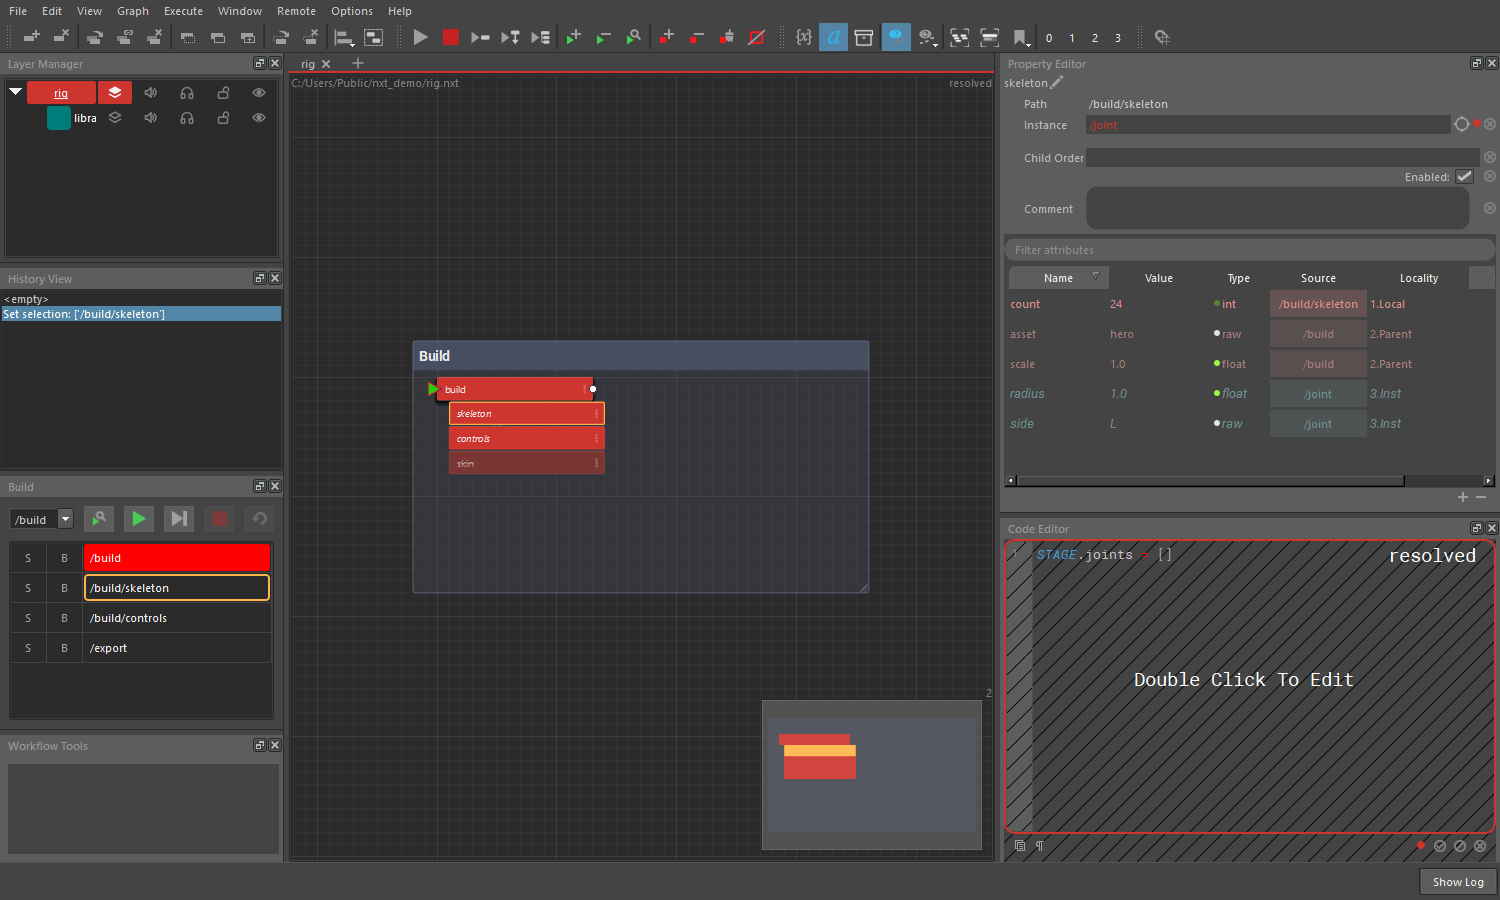
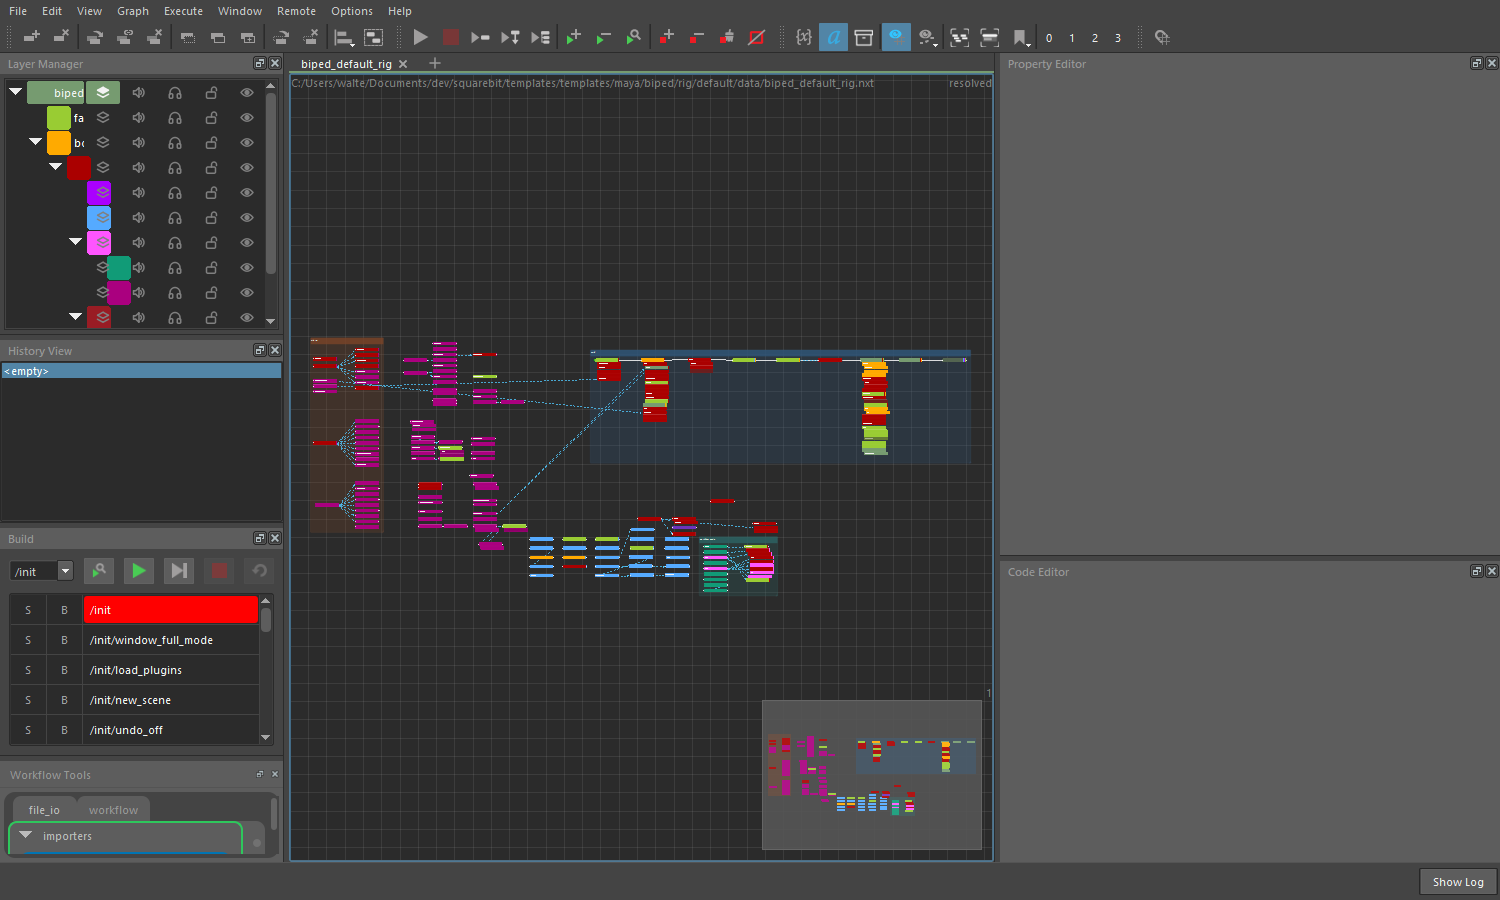
Docs: Host application in Maya, Blender and Unreal
What the look does in each host, with pictures from Blender and Unreal,
and the Maya picture retaken with the round workflow buttons.

Claude-Session: https://claude.ai/code/session_01L3sBgXZyPfyXoG9XL5jphw
(cherry picked from commit 07b6e25d6e00ab2d9f98826b0c993dae88088c1b)

diff --git a/docs/user_docs/docs/reference.md b/docs/user_docs/docs/reference.md
@@ -1098,16 +1098,23 @@ own dialogs in Options.
 - **Classic** is how the editor looked before the modern look: the
   original dark stylesheet and its blue highlights, and nodes with square
   corners and their names in the code font.
-- **Host application** takes the colors and font of the host the editor
-  runs in, and leaves its widgets to be drawn the way the host draws its
-  own, so in Maya the editor looks like a Maya window. It needs a host
-  that is a Qt application with a dark interface. Standalone, and in
-  Blender and Unreal, where the editor's windows are the only Qt ones,
-  there is no such look to take and the editor stays Modern.
+- **Host application** looks like the host the editor runs in:
+    - In **Maya**, the editor takes Maya's colors and font, and Maya draws
+      its widgets, so it looks like a Maya window. Workflow Tools keep
+      their round buttons, in Maya's colors.
+    - In **Blender** and **Unreal**, which draw their own interface
+      without Qt, the editor draws its widgets itself in that host's
+      colors and font: Blender's default theme and its Inter font, and
+      Unreal's editor colors and Roboto.
+    - On its own, the editor is Modern, and Host application is greyed
+      out in Preferences. Chosen in a host, it is kept for the next time
+      the editor runs there.
 
 ![Modern](images/look_modern.png)
 ![Classic](images/look_classic.png)
 ![Host application, in Maya](images/look_host.png)
+![Host application, in Blender](images/look_host_blender.png)
+![Host application, in Unreal](images/look_host_unreal.png)
 
 **Stylesheet**, beside it, names a `.qss` file of your own that is laid
 over whichever look is chosen, to restyle what you like: a studio's own
@@ -1133,7 +1140,8 @@ A look is put in place as the editor loads, so a change shows the next
 time the editor's host starts. A pipeline can set both for everyone with
 the environment variables `NXT_EDITOR_LOOK` (`modern`, `classic` or
 `host`) and `NXT_EDITOR_STYLESHEET` (a file), which have the last word
-over the preferences.
+over the preferences. When `NXT_EDITOR_LOOK` is set, Preferences shows
+the look it sets and can not change it.
 
 # Terms and Definitions
 

diff --git a/docs/user_docs/docs/whats_new.md b/docs/user_docs/docs/whats_new.md
@@ -8,9 +8,9 @@ Each item links to the part of the docs that explains it in full.
 
 **New**
 - **Three looks to choose from**, in **Options > Preferences... > Look**:
-  Modern, Classic (how the editor looked before) and Host application
-  (the host's own colors, font and widgets), and a **Stylesheet** of your
-  own to lay over it. See
+  Modern, Classic (how the editor looked before) and Host application,
+  which looks like Maya, Blender or Unreal when the editor runs in them,
+  and a **Stylesheet** of your own to lay over it. See
   [The editor's look](reference.md#the-editors-look).
 - **The graph has no edge.** Pan, frame and go to nodes as far out as you
   like; the canvas grows as you go.
